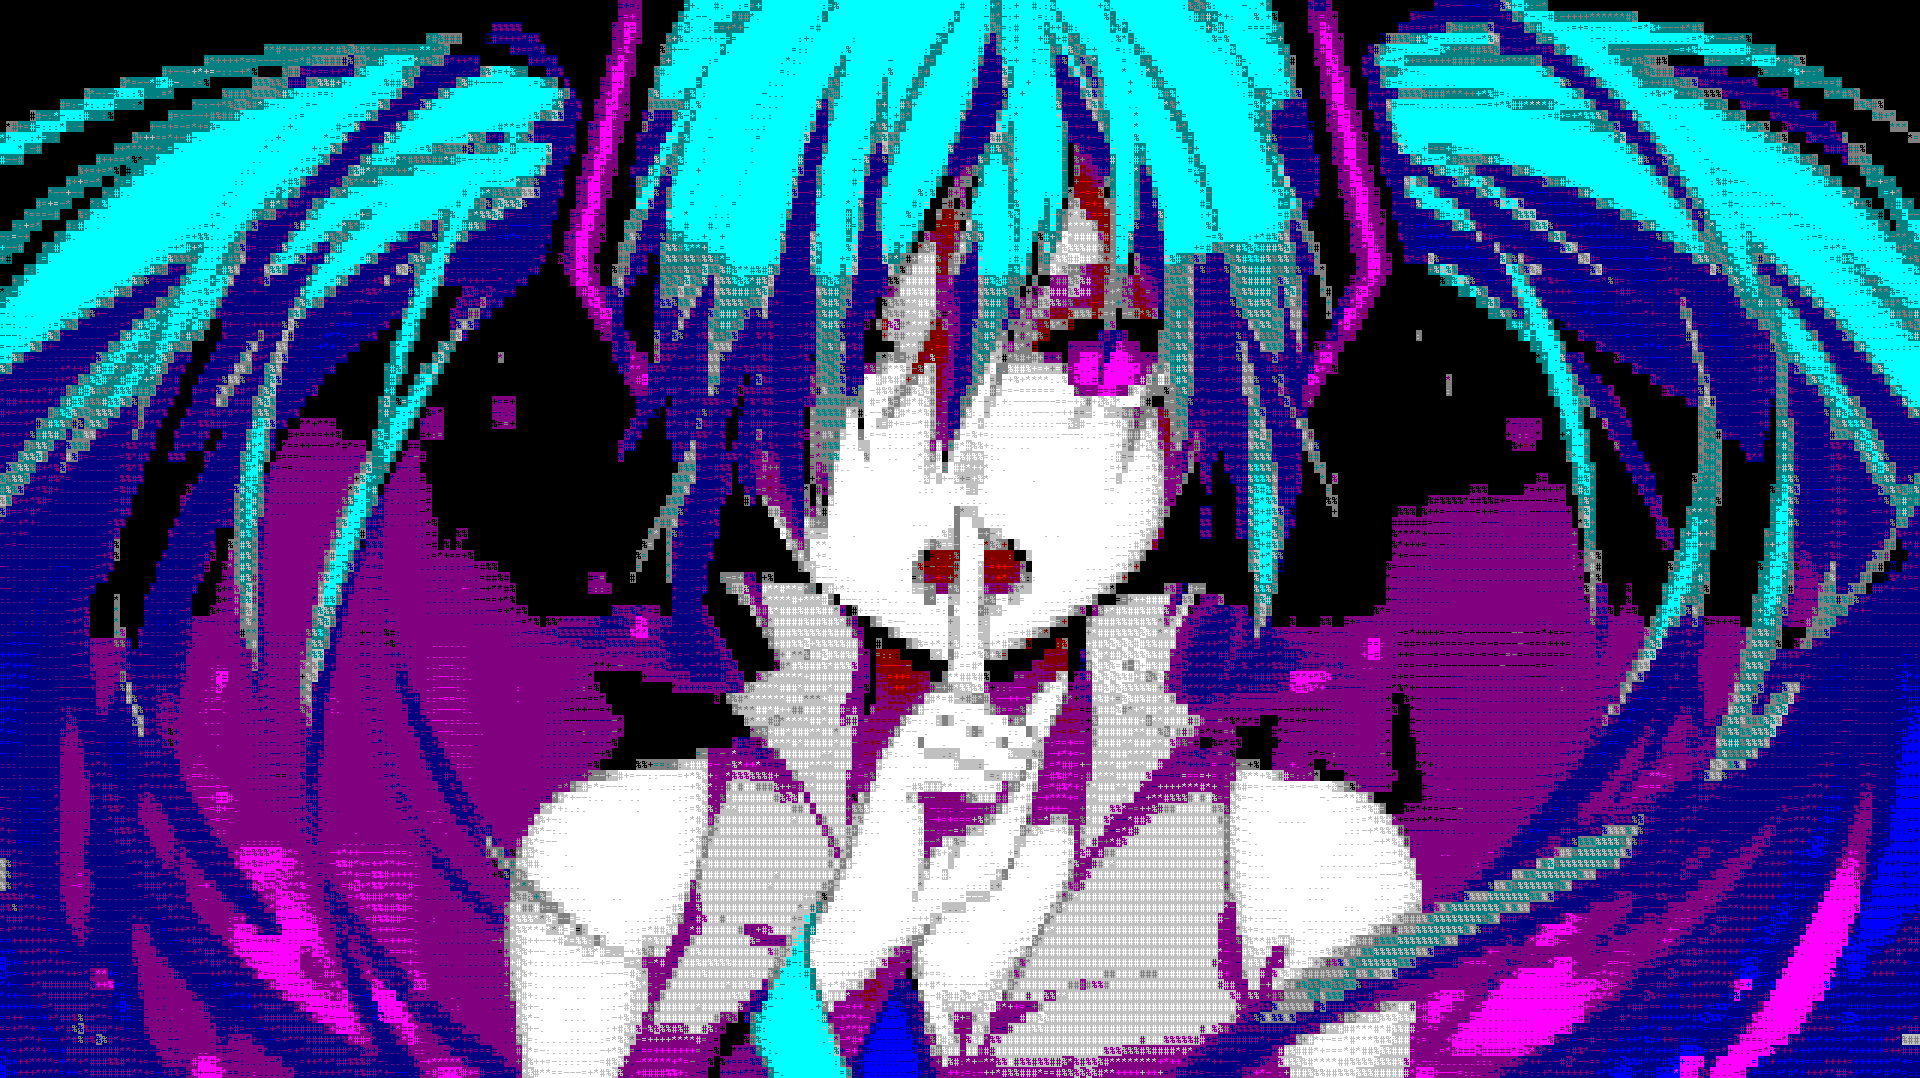
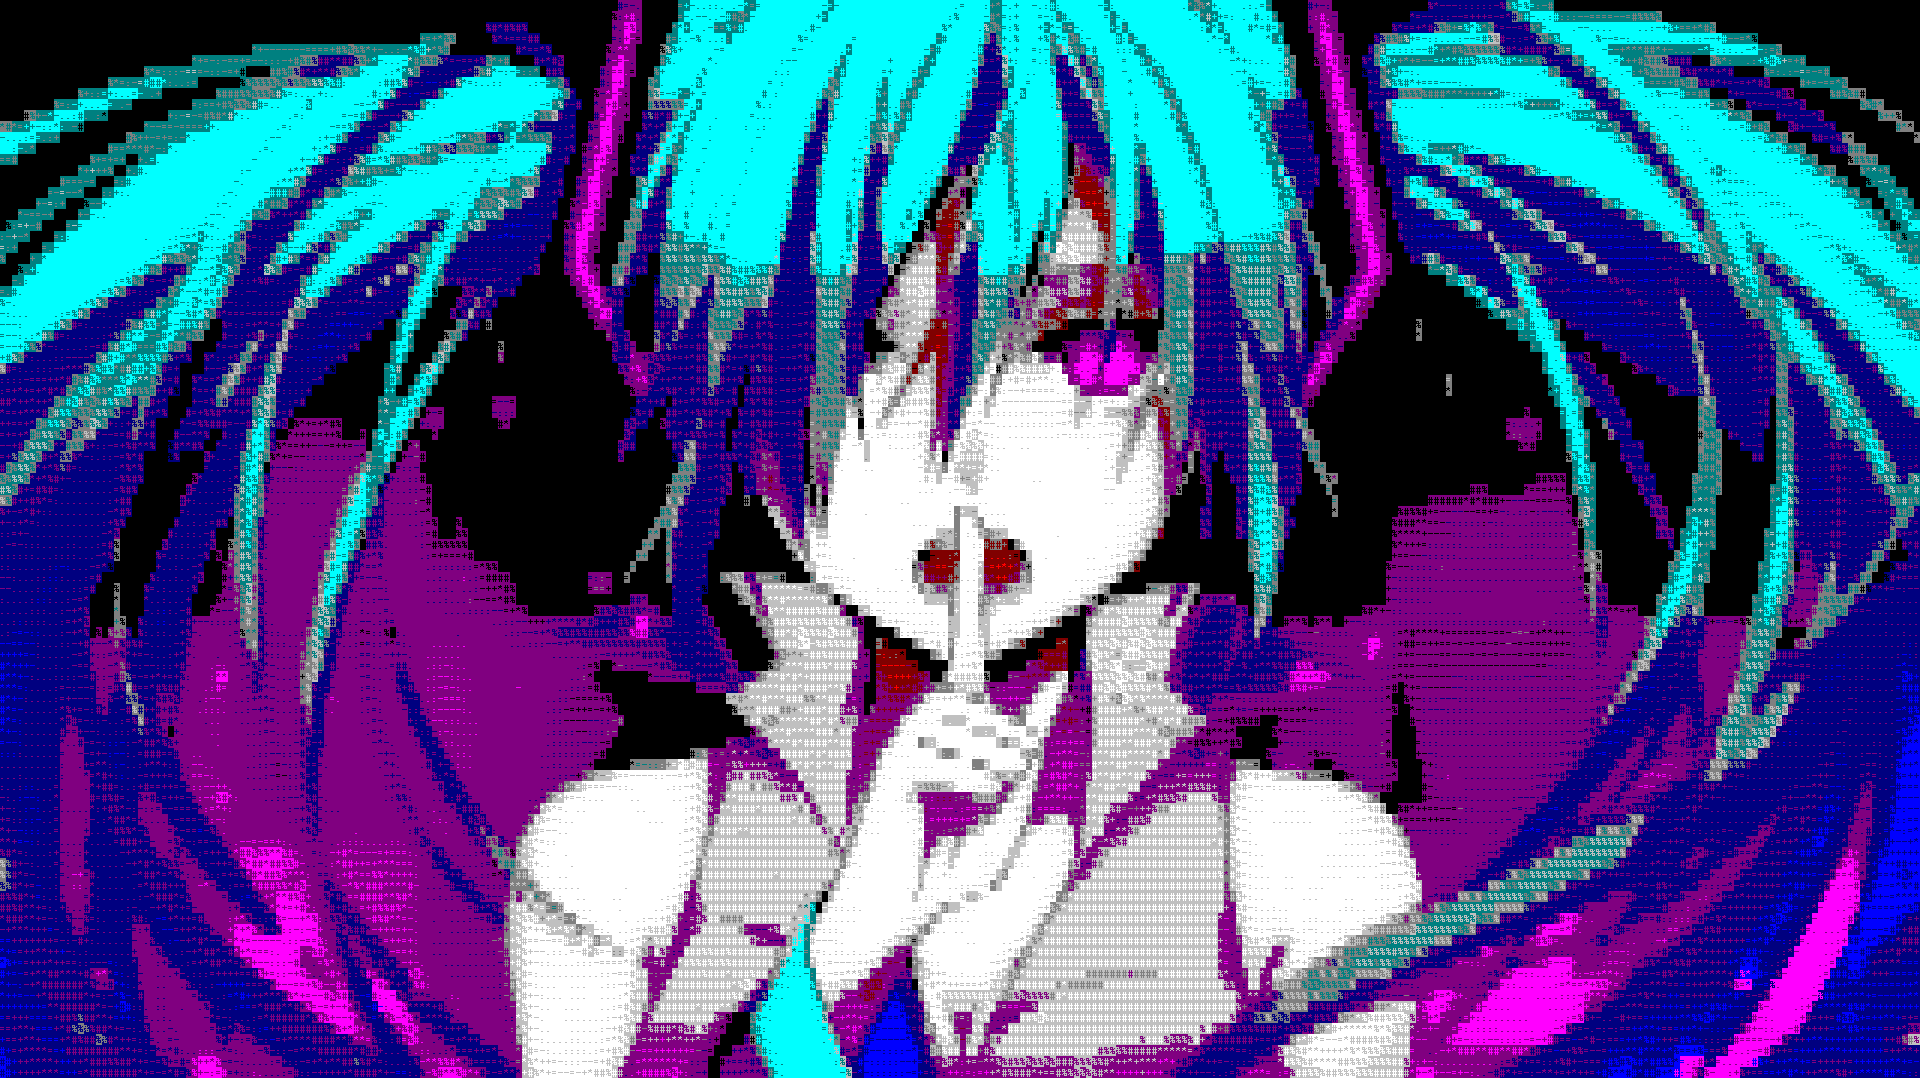
Add CIE94 comparsion function

diff --git a/aart/Comparators.h b/aart/Comparators.h
@@ -3,14 +3,47 @@
 
 #include "colors.h"
 
-[[nodiscard]] inline auto CIE76_distance(const lab_t<float>& x, const lab_t<float>& y) noexcept -> float
-{
-	return sqrt(pow(x.l - y.l, 2) + pow(x.a - y.a, 2) + pow(x.b - y.b, 2));
-}
-
 [[nodiscard]] inline auto CIE76_distance_sqr(const lab_t<float>& x, const lab_t<float>& y) noexcept -> float
 {
-	return pow(x.l - y.l, 2) + pow(x.a - y.a, 2) + pow(x.b - y.b, 2);
+	return powf(x.l - y.l, 2) + powf(x.a - y.a, 2) + powf(x.b - y.b, 2);
+}
+
+[[nodiscard]] inline auto CIE76_distance(const lab_t<float>& x, const lab_t<float>& y) noexcept -> float
+{
+	return sqrtf(CIE76_distance_sqr(x, y));
+}
+
+[[nodiscard]] inline auto CIE94_distance_sqr(const lab_t<float>& x, const lab_t<float>& y) noexcept -> float
+{
+	const auto dL = x.l - y.l;
+
+	const auto C1 = sqrtf(x.a * x.a + x.b * x.b);
+	const auto C2 = sqrtf(y.a * y.a + y.b * y.b);
+	const auto dC = C1 - C2;
+
+	const auto da = x.a - y.a;
+	const auto db = x.b - y.b;
+
+	auto dH = da * da + db * db - dC * dC;
+	dH = dH > 0.f ? sqrtf(dH) : 0.f;
+
+	// For graphic arts (acc. to Wikipedia)
+	constexpr auto kL = 1.f;
+	constexpr auto K1 = 0.045f;
+	constexpr auto K2 = 0.015f;
+
+	const auto SL = 1.f;
+	const auto SC = 1.f + K1 * C1;
+	const auto SH = 1.f + K2 * C1;
+
+	// Assume that kC and kH are both unity (acc. to Wikipedia)
+	const auto dE = powf(dL / (kL * SL), 2) + powf(dC / SC, 2) + powf(dH / SH, 2);
+	return dE;
+}
+
+[[nodiscard]] inline auto CIE94_distance(const lab_t<float>& x, const lab_t<float>& y) noexcept -> float
+{
+	return sqrtf(CIE94_distance_sqr(x, y));
 }
 
 [[nodiscard]] inline auto RGB_euclidian_sqr(const rgb_t<float>& x, const rgb_t<float>& y) noexcept -> float

diff --git a/aart/main.cpp b/aart/main.cpp
@@ -139,11 +139,11 @@ int main(int argc, char* argv[])
 	gpu_charmap.upload(cpu_charmap);
 	gpu_colormap.upload(cpu_colormap);
 	
-	const auto charmap = charmap_t<color_t, launch_t::cuda>{
-		gpu_charmap,
-		gpu_colormap,
+	const auto charmap = charmap_t<color_t, launch_t::cpu>{
+		cpu_charmap,
+		cpu_colormap,
 		ascii_grayscale
 	};
 	
-	convert_video<color_t>("test.mp4", "out.mp4", charmap);
+	convert_image<color_t>("test.jpg", "out.png", charmap);
 }

diff --git a/aart/Art.h b/aart/Art.h
@@ -26,7 +26,7 @@ template <typename T>
 		const auto cellw = charmap.cellW();
 		const auto cellh = charmap.cellH();
 
-		auto cell = charmap.getCell(p, CIE76_distance_sqr);
+		auto cell = charmap.getCell(p, CIE76_distance_sqr);	
 		const auto roi = cv::Rect{ x * cellw, y * cellh, cellw, cellh };
 		cell.copyTo(art(roi));
 		});

diff --git a/aart/Charmap.h b/aart/Charmap.h
@@ -69,7 +69,7 @@ template <typename F>
 	// Calculate character index
 	const int char_pos = colors.fg_delta == 0 ?
 		m_nchars - 1 :
-		colors.bg_delta / colors.fg_delta * (m_nchars - 1);
+		colors.bg_delta * (m_nchars - 1) / colors.fg_delta;
 
 	// Calculate cell position in charmap
 	const auto cell_x = char_pos * m_cellw;
